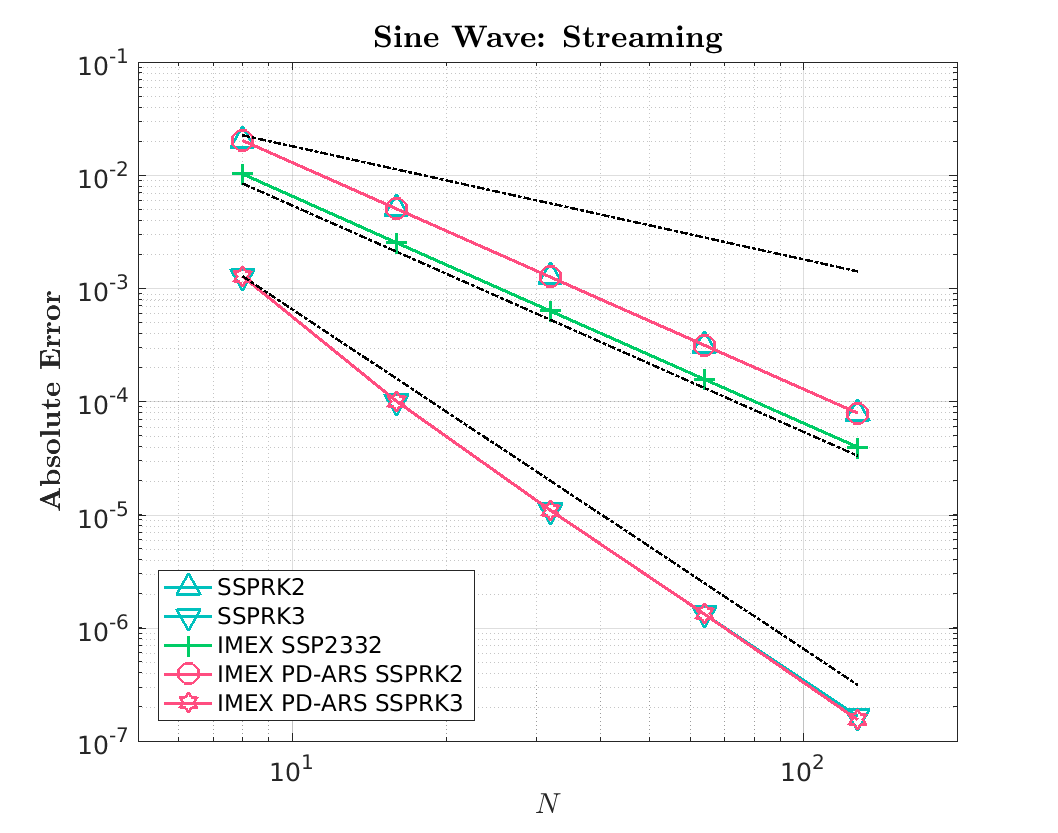
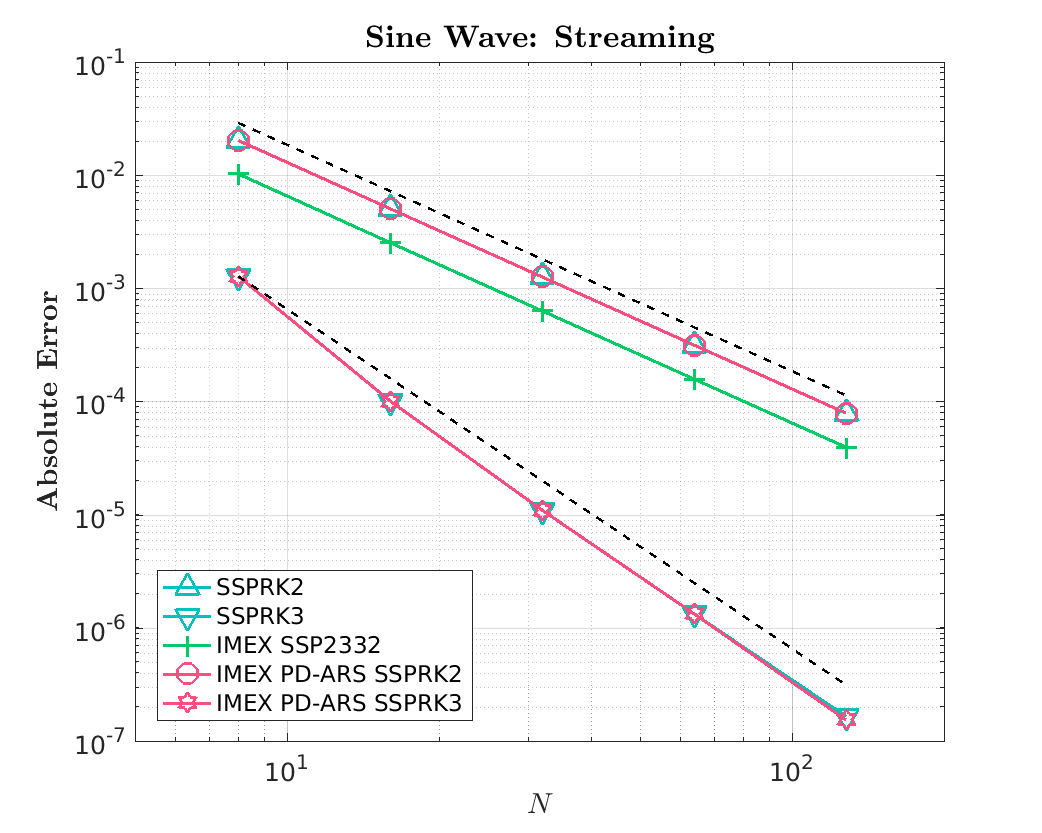
Modified the numerical tests section

diff --git a/Documents/M1/Astronum_2018/sections/Numerical.tex b/Documents/M1/Astronum_2018/sections/Numerical.tex
@@ -1,52 +1,60 @@
 \section{Numerical Tests}\label{se:NumericalTests}
 
-In this section we present the numerical results obtained with the PD-ARS schemes provided in this paper.
-The tests in Section \ref{se: Accuracy Tests} are designed to compare the accuracy of the schemes in various regimes.
-The test in Section \ref{se: Neutrino Stationary State Test} demonstrates the realizability-preserving of PD-ARSs scheme.
+In this section we present the numerical results obtained with the PD-ARS schemes given in Section~\ref{se:TimeIntegration}.
+The tests in Section \ref{se: Accuracy Tests} are designed to compare the accuracy of the schemes in streaming, absorption, and scattering dominated regimes in one spatial dimension.
+The test in Section \ref{se: Neutrino Stationary State Test} demonstrates the convex-invariance of PD-ARSs scheme.
 All the tests in this subsection were applied with third-order accurate spatial discretization (polynomials of degree $k=2$) and time step $\dt = 0.1 \times \dx $.
+
 \subsection{Accuracy Tests}
 \label{se: Accuracy Tests}
-To compare the accuracy of the IMEX scheme, we applied our PDARSs and Pareschi \& Russo \cite{pareschiRusso_2005} (SSP2332) scheme to some smooth problems in streaming, absorption, ans scattering dominated regimes in one spatial dimension.
-All the tests in this subsection were applied with the maximum entropy closure in the low occupancy limit.
-In the streaming test, the second-order and third-order accurate explicit strong stability-preserving Runge-Kutta methods\cite{gottlieb_etal_2001} , (SSPRK2 and SSPRK3, respectively) are also applied to serve as an reference.
-More information and the definition of the absolute error and the relative error can be found in \cite{chu_etal_2018}.
+To compare the accuracy of the IMEX scheme, we applied our PDARSs and Pareschi \& Russo \cite{pareschiRusso_2005} (SSP2332) scheme to some problems with known smooth solutions in streaming, absorption, ans scattering dominated regimes in one spatial dimension.
+All the tests in this subsection were applied with the maximum entropy closure in the low occupancy limit(i.e., the Minerbo closure).
+In the streaming test, the second-order and third-order accurate explicit strong stability-preserving Runge-Kutta methods\cite{gottlieb_etal_2001} , (SSPRK2 and SSPRK3, respectively) are also applied to serve as references.
+To compare the numerical results to analytic solutions, the cell averaged absolute error or the cell averaged relative error are computed.
+For convergence test, the number of elements ($N$) vary from 8 to 128.
 
 \subsubsection{Sine Wave Streaming}
-This test involves the streaming part only: the collision term is turned off. 
-A periodic domain $D$ was applied and the initial condition is given by...
-More information can be found in \cite{chu_etal_2018}.
-In Figure ~\ref{fig: SineWaveStreaming}, the absolute error for the number density is plotted versus the number of elements $N$.
-Errors obtained with SSPRK3 and PD-ARS with SSPRK3 decrease as $N^{-3}$ as expected.
+Sine wave streaming test is designed for the steaming dominated regime with $\sigma_{\Ab} = \sigma_{\Scatt} = 0$.
+A periodic domain with length=1 is applied and the initial condition is $\cJ = \bcH =$ a spacial sine wave function.
+We evolve until the since wave has completed 10 crossing of the domain.
+Figure~\ref{fig: SineWaveStreaming} plots the absolute error for the number density versus the number of elements $N$.
+We see the errors obtained with SSPRK3 and PD-ARS with SSPRK3 decrease as $N^{-3}$ as expected.
 All the other schemes have errors decreases as $N^{-2}$.
-In the streaming limit, PD-ARSs degenerate to their explicit part, SSPRK2 and SSPRK3, respectively.
-Hence, errors of PD-ARS and SSPRKs are indistinguishable on the plot.
 Among the second-order schemes, SSP2332 has the smallest error.
+
+In the streaming limit, PD-ARSs degenerate to their explicit part, SSPRK2 and SSPRK3, respectively.
+That's why errors of PD-ARSs and SSPRKs are indistinguishable on the plot.
+
 \begin{figure}[h]
   \centering
     \includegraphics[width=0.6\textwidth]{figures/SineWaveStreaming}
-   \caption{Absolute error versus number of elements $N$ for the streaming sine wave test.  Results employing various time stepping schemes are compared: SSPRK2 (cyan triangles pointing up), SSPRK3 (cyan triangles pointing down), SSP2332 (green crossing), PD-ARS with SSPRK2 (light red circles) and PD-ARS with SSPRK2 (light red hexagram). Black dash-dot reference lines are proportional to $N^{-1}$ (top), $N^{-2}$ (middle), and $N^{-3}$ (bottom), respectively.}
+   \caption{Absolute error versus number of elements $N$ for the streaming sine wave test.  Results employing various time stepping schemes are compared: SSPRK2 (cyan triangles pointing up), SSPRK3 (cyan triangles pointing down), SSP2332 (green crossing), PD-ARS with SSPRK2 (light red circles) and PD-ARS with SSPRK2 (light red hexagram). Black dash reference lines are proportional to $N^{-2}$ (top), and $N^{-3}$ (bottom), respectively.}
    \label{fig: SineWaveStreaming}
 \end{figure}
 
 \subsubsection{Sine Wave Damping}
-This test is adapted from \cite{skinnerOstriker_2013}.
-Figure~\ref{fig:SineWaveDamping} shows the numerical result of sine wave damping test.
-See \cite{chu_etal_2018} for more information about the test setting.
+This test, adapted from \cite{skinnerOstriker_2013}, is designed for absorption dominated regime with $\sigma_{\Scatt} = 0, f_0 = 0$, which results in exponential damping of the wave amplitude.
+A periodic domain with length=1 and a initial condition with $\cJ = \bcH =$ a spacial sine wave function is applied.
+The amplitude of analytical solution decreasing as $e^{-\sigma_{\Ab} t}$.
+We evolve for $\sigma_{\Ab}$ = 0.1, 1 and 10 until the initial condition has been damped by factor $e^{-10}$. 
+Figure~\ref{fig:SineWaveDamping} shows convergence results of sine wave damping test with a relative error.
 SSP2332 as a second-order scheme display second order convergence rate.
-PD-ARSs convergent in first order, as a price paid for realizability-preserving.
+PD-ARSs convergent in first order as a price paid for convex-invariance.
 \begin{figure}[h]
   \centering
     \includegraphics[width=0.7\textwidth]{figures/SineWaveDamping}
-   \caption{Relative error versus number of elements $N$ for the damping sine wave test. Results for different values of the absorption opacity $\sigma_{\Ab}$, employing various IMEX time stepping schemes, are compared.  Errors for $\sigma_{\Ab}=0.1$, $1$, and $10$ are plotted with red, green, and blue lines, respectively.  The IMEX schemes employed are SSP2332 ($+$), PD-ARS with SSPRK2 (circles) and PD-ARS with SSPRK3 (hexagram).  Black dash-dot reference lines are proportional to $N^{-1}$ (top) and $N^{-2}$ (bottom), respectively.}
+   \caption{Relative error versus number of elements $N$ for the damping sine wave test. Results for different values of the absorption opacity $\sigma_{\Ab}$, employing various IMEX time stepping schemes, are compared.  Errors for $\sigma_{\Ab}=0.1$, $1$, and $10$ are plotted with red, green, and blue lines, respectively.  The IMEX schemes employed are SSP2332 ($+$), PD-ARS with SSPRK2 (circles) and PD-ARS with SSPRK3 (hexagram).  Black dash reference lines are proportional to $N^{-1}$ (top) and $N^{-2}$ (bottom), respectively.}
   \label{fig:SineWaveDamping}
 \end{figure}
 
 \subsubsection{Sine Wave Diffusion}
-The last test with known smooth solution is sine wave diffusion test.
-It is adopted from \cite{radice_etal_2013}.
-See \cite{chu_etal_2018} for more information about the test setting.
-Figure~\ref{fig:SineWaveDiffusionJ} shows the numerical result.
-SSP2332 and PD-ARSs display third-order accuracy for the number density $\cJ$ and second-oder accuracy for $\cH_{x}$ and their errors are difficult to distinguish.
+The last test with known smooth solution,adopted from \cite{radice_etal_2013}, is sine wave diffusion test with $\sigma_{\Ab} = 0, f_0 = 0$.
+A periodic domain with $D=\{x:x\in[-3,3]\}$ and a initial condition with $\cJ_{0}$ = a spacial sine wave function and $\cH =-\f{1}{3\sigma_{\Scatt}}\pderiv{\cJ}{x}$ is applied.
+The analytical solution is given by $\cJ = \cJ_{0} \times e^{-\f{\pi^2 t}{27\sigma_{\Scatt}}}$ and $\cH = (3\,\sigma_{\Scatt})^{-1}\pd{\cJ}{x}$.
+We evolve with $\sigma_{\Scatt}=10^{2}$, $10^{3}$, and $10^{4}$, and adjust the end time so that $t_{\mbox{\tiny end}}/\sigma_{\Scatt}=1$. 
+Then the amplitude of the sine wave has then been reduced by a factor $e^{-\pi^{2}/27}\approx0.694$ for all values of $\sigma_{\Scatt}$. 
+Figure~\ref{fig:SineWaveDiffusionJ} shows the convergence.
+SSP2332 and PD-ARSs display third-order accuracy for the number density $\cJ$ and second-order accuracy for $\cH_{x}$ and their errors are difficult to distinguish.
 PD-ARS with SSP2332 behaviors as good as SSP2332 in the diffusion region but requires 1/3 less implicit solver.
 \begin{figure}[h]
   \centering
@@ -54,7 +62,7 @@ PD-ARS with SSP2332 behaviors as good as SSP2332 in the diffusion region but req
     \includegraphics[width=0.5\textwidth]{figures/SineWaveDiffusionJ}
     \includegraphics[width=0.5\textwidth]{figures/SineWaveDiffusionH}
   \end{tabular}
-   \caption{Absolute error for the number density $\cJ$ (left) and the number flux $\cH_{x}$ (right) versus number of elements for the sine wave diffusion test.  Results with different values of the scattering opacity $\sigma_{\Scatt}$, employing different IMEX schemes, are compared.  Errors with $\sigma_{\Scatt}=10^{2}$, $10^{3}$, and $10^{4}$ are plotted with red, green, and blue lines, respectively.  The IMEX schemes employed are:  SSP2332 ($+$), PD-ARS with SSPRK2 (circles) and PD-ARS with SSPRK3 (hexagram). Black dash-dot on the left plot reference lines are proportional to $N^{-1}$ (top) and $N^{-2}$ (bottom), respectively. Black dash-dot on the right plot reference lines are proportional to $N^{-2}$ .}
+   \caption{Absolute error for the number density $\cJ$ (left) and the number flux $\cH_{x}$ (right) versus number of elements for the sine wave diffusion test.  Results with different values of the scattering opacity $\sigma_{\Scatt}$, employing different IMEX schemes, are compared.  Errors with $\sigma_{\Scatt}=10^{2}$, $10^{3}$, and $10^{4}$ are plotted with red, green, and blue lines, respectively.  The IMEX schemes employed are:  SSP2332 ($+$), PD-ARS with SSPRK2 (circles) and PD-ARS with SSPRK3 (hexagram). Black dash on the left plot reference lines are proportional to $N^{-2}$ (top) and $N^{-3}$ (bottom), respectively. Black dash on the right plot reference lines are proportional to $N^{-2}$ .}
    \label{fig:SineWaveDiffusionJ}
 \end{figure}
 
